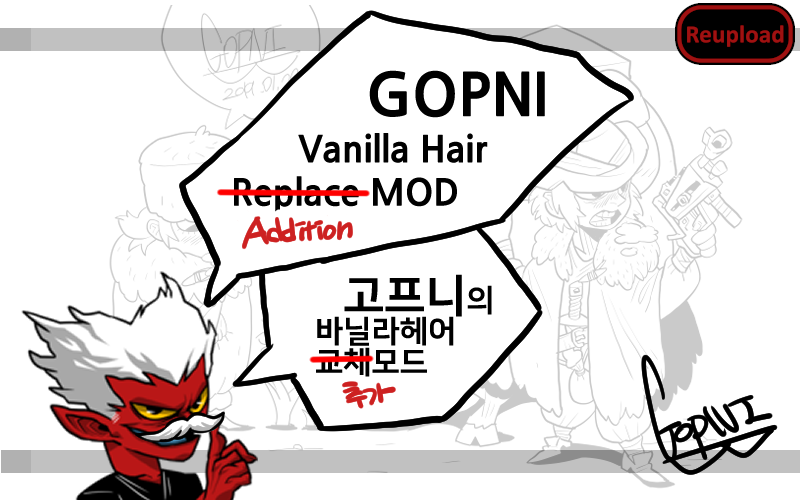
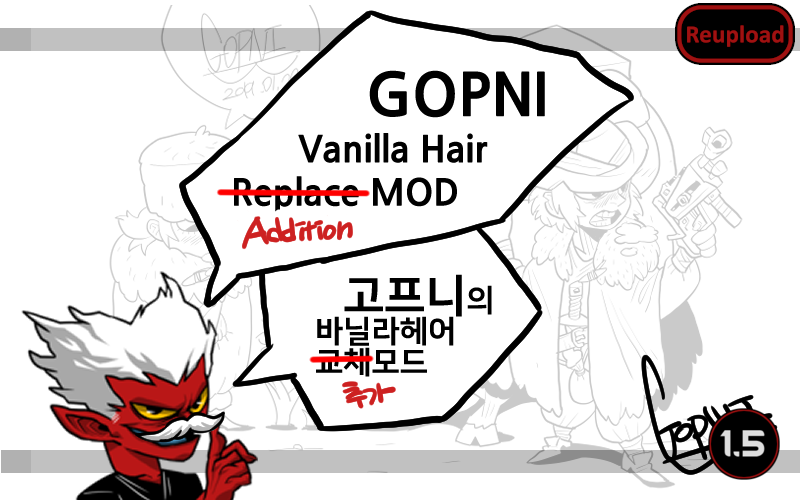
Steam never actually published the 1.5 update, republishing

Changed region(s): [[0.875, 0.81, 1.0, 0.96]]

diff --git a/README.md b/README.md
@@ -22,11 +22,13 @@ Adds your hairstyle without replacing it.
 
 -  See if the the error persists if you just have this mod and its requirements active.
 -  If not, try adding your other mods until it happens again.
--  Post your error-log using https://steamcommunity.com/workshop/filedetails/?id=818773962]HugsLib and command Ctrl+F12
+-  Post your error-log using https://steamcommunity.com/workshop/filedetails/?id=818773962]HugsLib or the standalone https://steamcommunity.com/sharedfiles/filedetails/?id=2873415404]Uploader and command Ctrl+F12
 -  For best support, please use the Discord-channel for error-reporting.
 -  Do not report errors by making a discussion-thread, I get no notification of that.
 -  If you have the solution for a problem, please post it to the GitHub repository.
+-  Use https://github.com/RimSort/RimSort/releases/latest]RimSort to sort your mods
 
 
 
+https://steamcommunity.com/sharedfiles/filedetails/changelog/2352474099]![Image](https://img.shields.io/github/v/release/emipa606/GOPNIVanillaHairAddition?label=latest%20version&style=plastic&color=9f1111&labelColor=black)
 
